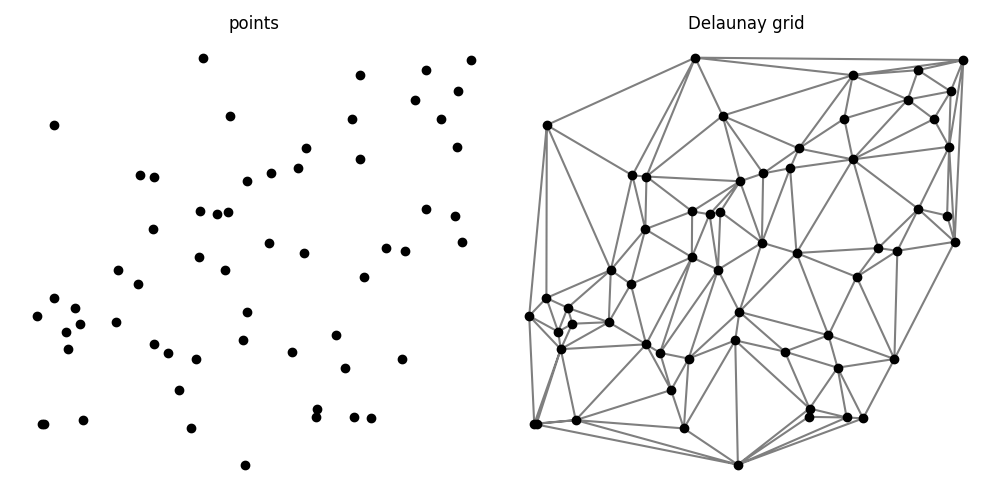
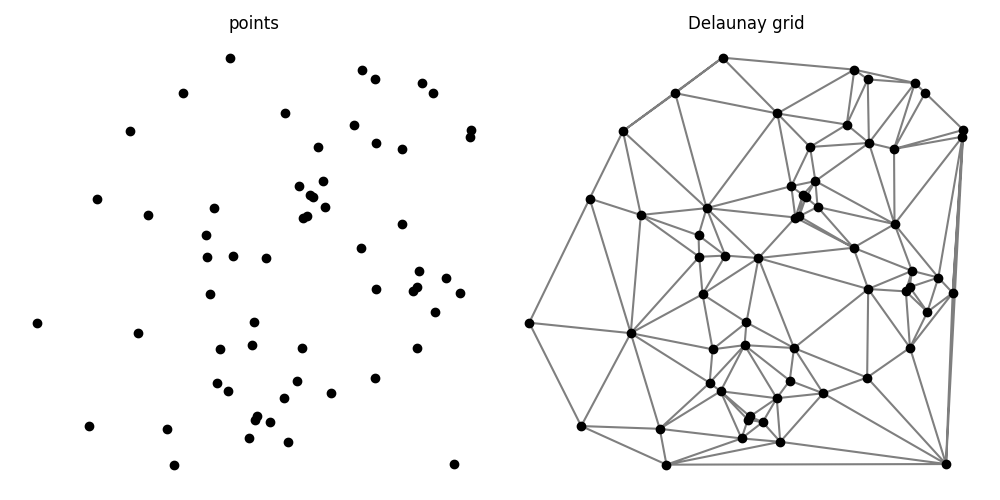
Update docs after building Travis build 23 of rwijtvliet/polygonation
The docs were built from the branch 'main' against the commit
5ac8621f3118771712fc70140a22b41398935111.

The Travis build that generated this commit is at
https://travis-ci.org/rwijtvliet/polygonation/jobs/742010899.

The doctr command that was run is

    /home/travis/virtualenv/python3.7.1/bin/doctr deploy . --built-docs docs/build/html --no-require-master

diff --git a/usage.html b/usage.html
@@ -7,7 +7,7 @@
   
   <meta name="viewport" content="width=device-width, initial-scale=1.0">
   
-  <title>Sample usage &mdash; polygonation 0.1.1.post1+g9d53072 documentation</title>
+  <title>Sample usage &mdash; polygonation 0.1.1.post2+g5ac8621 documentation</title>
   
 
   
@@ -64,7 +64,7 @@
             
             
               <div class="version">
-                0.1.1.post1+g9d53072
+                0.1.1.post2+g5ac8621
               </div>
             
           
@@ -181,26 +181,25 @@ the <code class="docutils literal notranslate"><span class="pre">Polygonate</spa
 
 <span class="gp">In [5]: </span><span class="n">plgn1</span><span class="o">.</span><span class="n">shapes</span>
 <span class="gh">Out[5]: </span><span class="go"></span>
-<span class="go">[[5, 0, 8],</span>
-<span class="go"> [12, 15, 1],</span>
-<span class="go"> [9, 14, 8],</span>
-<span class="go"> [4, 6, 1],</span>
-<span class="go"> [15, 4, 1],</span>
-<span class="go"> [7, 18, 13],</span>
-<span class="go"> [7, 13, 8, 14],</span>
-<span class="go"> [12, 13, 18, 3],</span>
-<span class="go"> [2, 11, 5, 0],</span>
-<span class="go"> [11, 6, 17, 2],</span>
-<span class="go"> [0, 19, 9, 8],</span>
-<span class="go"> [15, 4, 6, 17, 10, 3, 12],</span>
-<span class="go"> [2, 0, 19, 10, 17],</span>
-<span class="go"> [10, 19, 9, 14, 7, 18, 3],</span>
-<span class="go"> [11, 5, 16, 1, 6]]</span>
+<span class="go">[[11, 14, 5],</span>
+<span class="go"> [14, 11, 13],</span>
+<span class="go"> [10, 16, 4],</span>
+<span class="go"> [0, 6, 12, 19],</span>
+<span class="go"> [8, 7, 11, 13],</span>
+<span class="go"> [0, 1, 15, 19],</span>
+<span class="go"> [5, 14, 6, 12],</span>
+<span class="go"> [3, 17, 9, 2],</span>
+<span class="go"> [8, 13, 17, 9],</span>
+<span class="go"> [1, 15, 4, 18, 2],</span>
+<span class="go"> [15, 4, 16, 19],</span>
+<span class="go"> [10, 5, 12, 19, 16],</span>
+<span class="go"> [7, 11, 5, 10, 4, 18],</span>
+<span class="go"> [9, 2, 18, 7, 8]]</span>
 </pre></div>
 </div>
 <p>Using the <code class="docutils literal notranslate"><span class="pre">is_convex</span></code> function to verify that all polygons are indeed convex:</p>
 <div class="highlight-ipython notranslate"><div class="highlight"><pre><span></span><span class="gp">In [6]: </span><span class="nb">print</span><span class="p">([</span><span class="n">pg</span><span class="o">.</span><span class="n">is_convex</span><span class="p">(</span><span class="n">points</span><span class="p">[</span><span class="n">s</span><span class="p">])</span> <span class="k">for</span> <span class="n">s</span> <span class="ow">in</span> <span class="n">plgn1</span><span class="o">.</span><span class="n">shapes</span><span class="p">])</span>
-<span class="go">[True, True, True, True, True, True, True, True, True, True, True, True, True, True, True]</span>
+<span class="go">[True, True, True, True, True, True, True, True, True, True, True, True, True, True]</span>
 </pre></div>
 </div>
 <p>If we let go of the convexity criterium, we can find a smaller set of polygons:</p>
@@ -208,9 +207,9 @@ the <code class="docutils literal notranslate"><span class="pre">Polygonate</spa
 
 <span class="gp">In [8]: </span><span class="n">plgn2</span><span class="o">.</span><span class="n">shapes</span>
 <span class="gh">Out[8]: </span><span class="go"></span>
-<span class="go">[[0, 2, 19, 10, 14, 9],</span>
-<span class="go"> [6, 17, 10, 19, 2, 11, 16, 1, 12, 13, 7, 18, 3, 15, 4],</span>
-<span class="go"> [3, 15, 4, 6, 17, 10, 14, 9, 0, 2, 11, 16, 5, 8, 13, 7, 18]]</span>
+<span class="go">[[0, 6, 14, 5, 12, 19, 15, 16, 4, 1],</span>
+<span class="go"> [10, 4, 16, 15, 19, 12, 5, 11, 8, 9, 18, 7],</span>
+<span class="go"> [4, 10, 7, 18, 9, 8, 11, 5, 14, 13, 17, 3, 2, 1]]</span>
 </pre></div>
 </div>
 <p>Here is a comparison of both polygonations:</p>

diff --git a/index.html b/index.html
@@ -7,7 +7,7 @@
   
   <meta name="viewport" content="width=device-width, initial-scale=1.0">
   
-  <title>polygonation Documentation &mdash; polygonation 0.1.1.post1+g9d53072 documentation</title>
+  <title>polygonation Documentation &mdash; polygonation 0.1.1.post2+g5ac8621 documentation</title>
   
 
   
@@ -63,7 +63,7 @@
             
             
               <div class="version">
-                0.1.1.post1+g9d53072
+                0.1.1.post2+g5ac8621
               </div>
             
           

diff --git a/_modules/index.html b/_modules/index.html
@@ -7,7 +7,7 @@
   
   <meta name="viewport" content="width=device-width, initial-scale=1.0">
   
-  <title>Overview: module code &mdash; polygonation 0.1.1.post1+g9d53072 documentation</title>
+  <title>Overview: module code &mdash; polygonation 0.1.1.post2+g5ac8621 documentation</title>
   
 
   
@@ -62,7 +62,7 @@
             
             
               <div class="version">
-                0.1.1.post1+g9d53072
+                0.1.1.post2+g5ac8621
               </div>
             
           

diff --git a/_modules/polygonation/_core.html b/_modules/polygonation/_core.html
@@ -7,7 +7,7 @@
   
   <meta name="viewport" content="width=device-width, initial-scale=1.0">
   
-  <title>polygonation._core &mdash; polygonation 0.1.1.post1+g9d53072 documentation</title>
+  <title>polygonation._core &mdash; polygonation 0.1.1.post2+g5ac8621 documentation</title>
   
 
   
@@ -62,7 +62,7 @@
             
             
               <div class="version">
-                0.1.1.post1+g9d53072
+                0.1.1.post2+g5ac8621
               </div>
             
           

diff --git a/release-history.html b/release-history.html
@@ -7,7 +7,7 @@
   
   <meta name="viewport" content="width=device-width, initial-scale=1.0">
   
-  <title>Release History &mdash; polygonation 0.1.1.post1+g9d53072 documentation</title>
+  <title>Release History &mdash; polygonation 0.1.1.post2+g5ac8621 documentation</title>
   
 
   
@@ -63,7 +63,7 @@
             
             
               <div class="version">
-                0.1.1.post1+g9d53072
+                0.1.1.post2+g5ac8621
               </div>
             
           

diff --git a/api.html b/api.html
@@ -7,7 +7,7 @@
   
   <meta name="viewport" content="width=device-width, initial-scale=1.0">
   
-  <title>Api reference &mdash; polygonation 0.1.1.post1+g9d53072 documentation</title>
+  <title>Api reference &mdash; polygonation 0.1.1.post2+g5ac8621 documentation</title>
   
 
   
@@ -64,7 +64,7 @@
             
             
               <div class="version">
-                0.1.1.post1+g9d53072
+                0.1.1.post2+g5ac8621
               </div>
             
           

diff --git a/installation.html b/installation.html
@@ -7,7 +7,7 @@
   
   <meta name="viewport" content="width=device-width, initial-scale=1.0">
   
-  <title>Installation &mdash; polygonation 0.1.1.post1+g9d53072 documentation</title>
+  <title>Installation &mdash; polygonation 0.1.1.post2+g5ac8621 documentation</title>
   
 
   
@@ -64,7 +64,7 @@
             
             
               <div class="version">
-                0.1.1.post1+g9d53072
+                0.1.1.post2+g5ac8621
               </div>
             
           

diff --git a/search.html b/search.html
@@ -7,7 +7,7 @@
   
   <meta name="viewport" content="width=device-width, initial-scale=1.0">
   
-  <title>Search &mdash; polygonation 0.1.1.post1+g9d53072 documentation</title>
+  <title>Search &mdash; polygonation 0.1.1.post2+g5ac8621 documentation</title>
   
 
   
@@ -64,7 +64,7 @@
             
             
               <div class="version">
-                0.1.1.post1+g9d53072
+                0.1.1.post2+g5ac8621
               </div>
             
           

diff --git a/genindex.html b/genindex.html
@@ -7,7 +7,7 @@
   
   <meta name="viewport" content="width=device-width, initial-scale=1.0">
   
-  <title>Index &mdash; polygonation 0.1.1.post1+g9d53072 documentation</title>
+  <title>Index &mdash; polygonation 0.1.1.post2+g5ac8621 documentation</title>
   
 
   
@@ -62,7 +62,7 @@
             
             
               <div class="version">
-                0.1.1.post1+g9d53072
+                0.1.1.post2+g5ac8621
               </div>
             
           

diff --git a/_static/documentation_options.js b/_static/documentation_options.js
@@ -1,6 +1,6 @@
 var DOCUMENTATION_OPTIONS = {
     URL_ROOT: document.getElementById("documentation_options").getAttribute('data-url_root'),
-    VERSION: '0.1.1.post1+g9d53072',
+    VERSION: '0.1.1.post2+g5ac8621',
     LANGUAGE: 'None',
     COLLAPSE_INDEX: false,
     BUILDER: 'html',
